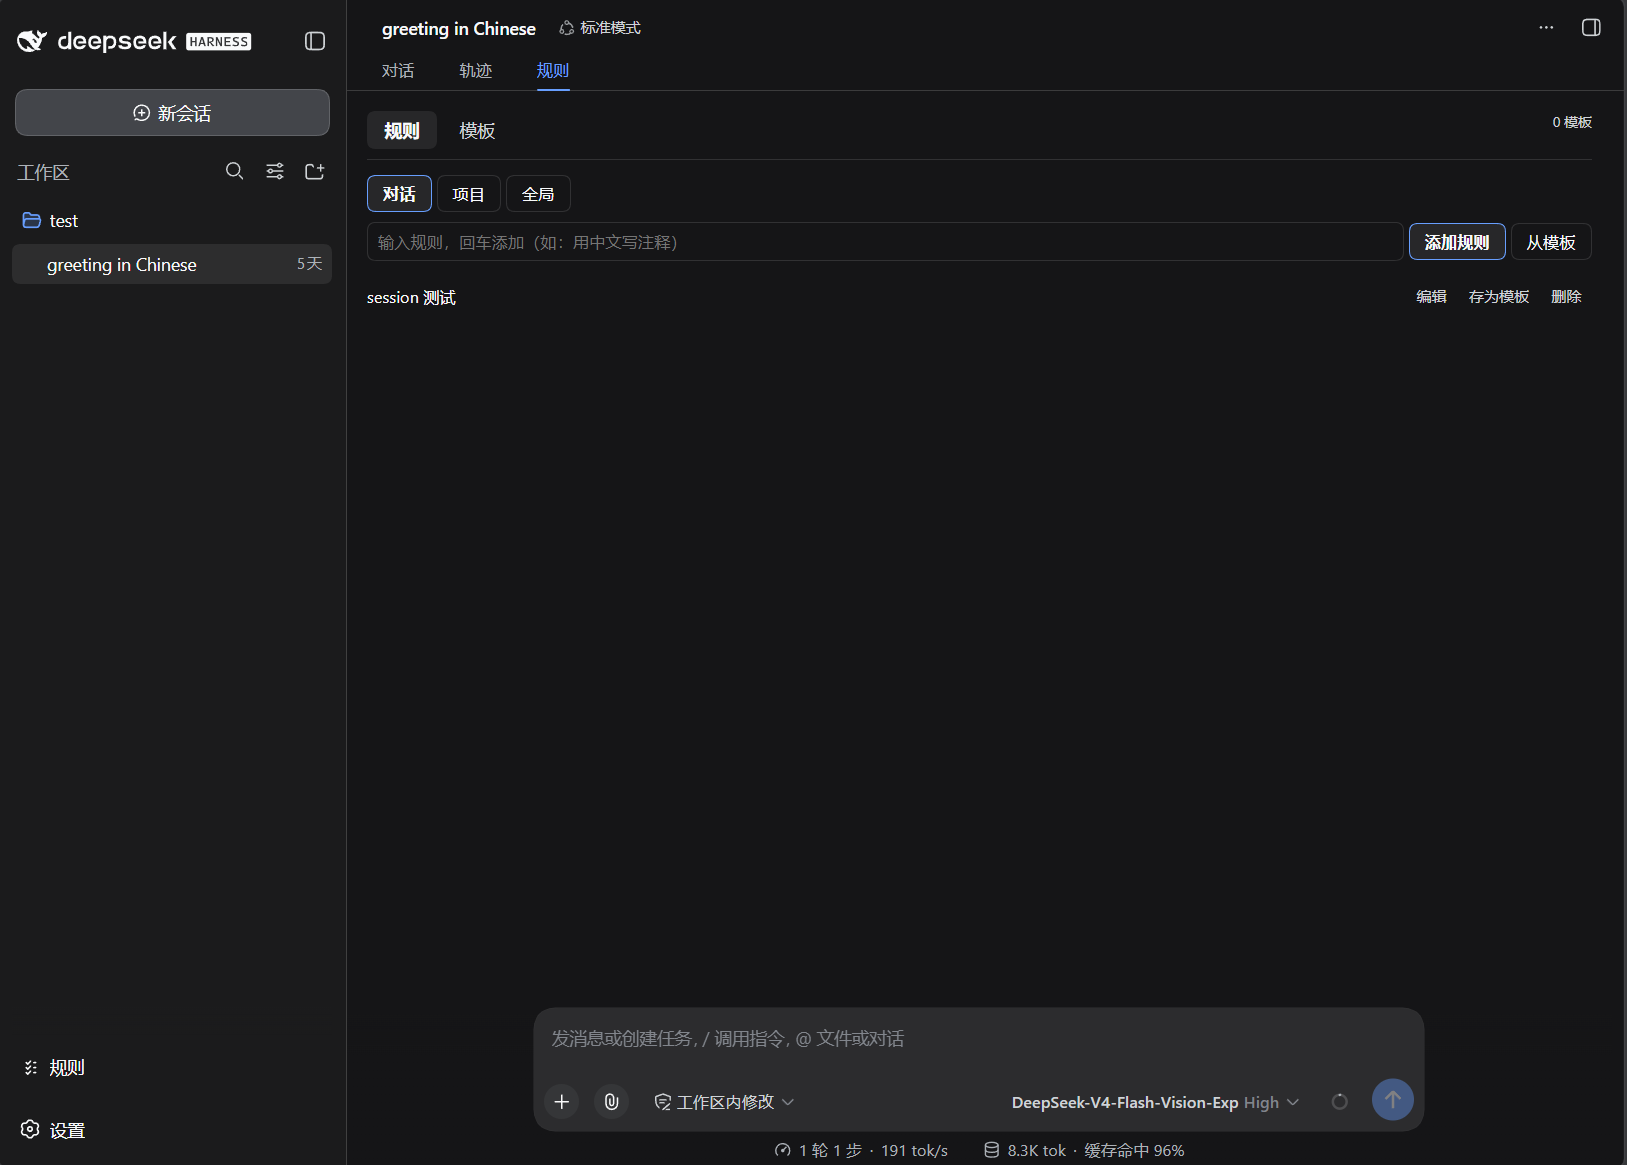
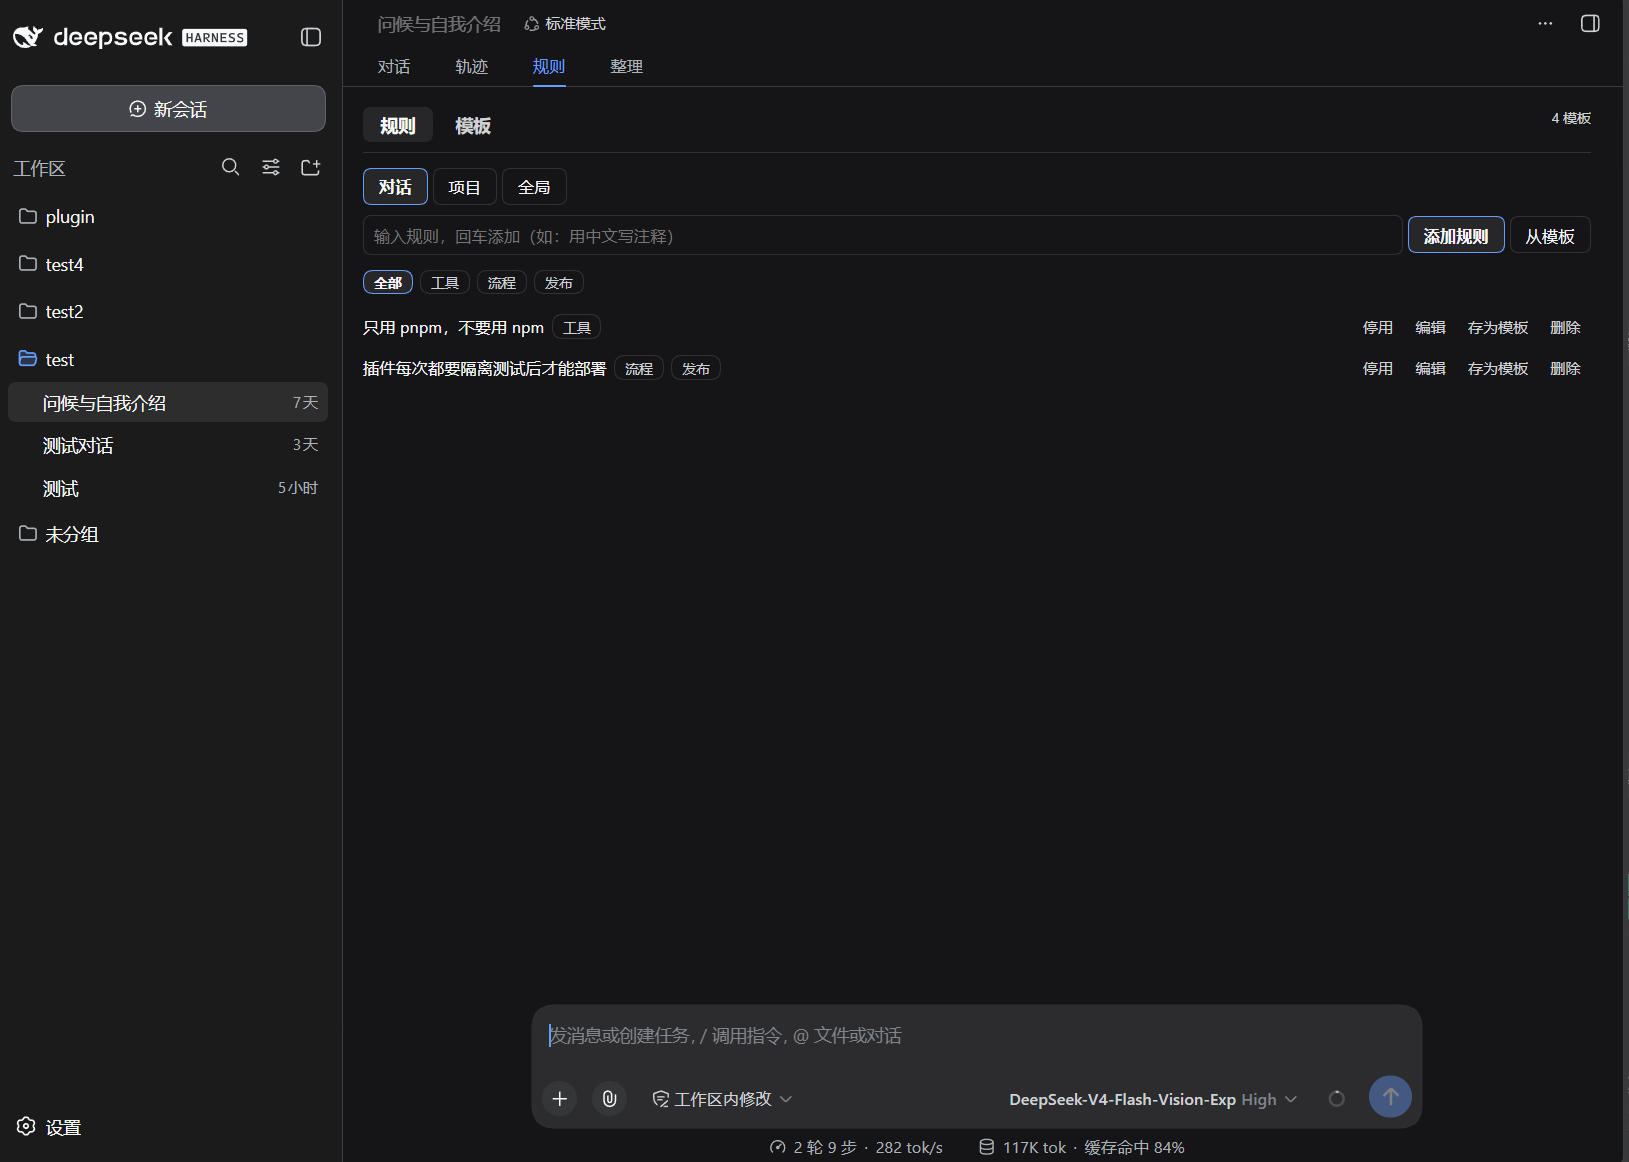
chore(release): 0.2.4 — README install examples and the rules-panel screenshot
- README (EN + ZH) install examples bumped to @0.2.4.
- assets/001-rules-panel.png recaptured: the sidebar footer now shows no
  规则 button (0.2.4 removed it); the panel itself — 规则 / 模板 panes,
  scope tabs, tag chips, per-row 停用/编辑/存为模板/删除 — is unchanged.

diff --git a/README.md b/README.md
@@ -56,7 +56,7 @@ Both inject a sourced `user/message` framed with `<system-reminder>`, and both c
 
 ```bash
 # Install from npm into the web profile (use the actual published version)
-dsh plugin --profile web add dsh-baize-rules@0.2.3
+dsh plugin --profile web add dsh-baize-rules@0.2.4
 pm2 restart dsh          # Reload when dsh is managed by pm2
 dsh --profile web
 ```
@@ -80,7 +80,7 @@ If the entry lingers in the profile's `dsh.profile.bundles`, delete that line fr
 Install into a **separate profile** so your currently running dsh stays unchanged:
 
 ```bash
-dsh plugin --profile smoke add dsh-baize-rules@0.2.3
+dsh plugin --profile smoke add dsh-baize-rules@0.2.4
 dsh --profile smoke --dump-config   # read & compose the config only — does not boot dsh
 ```
 
